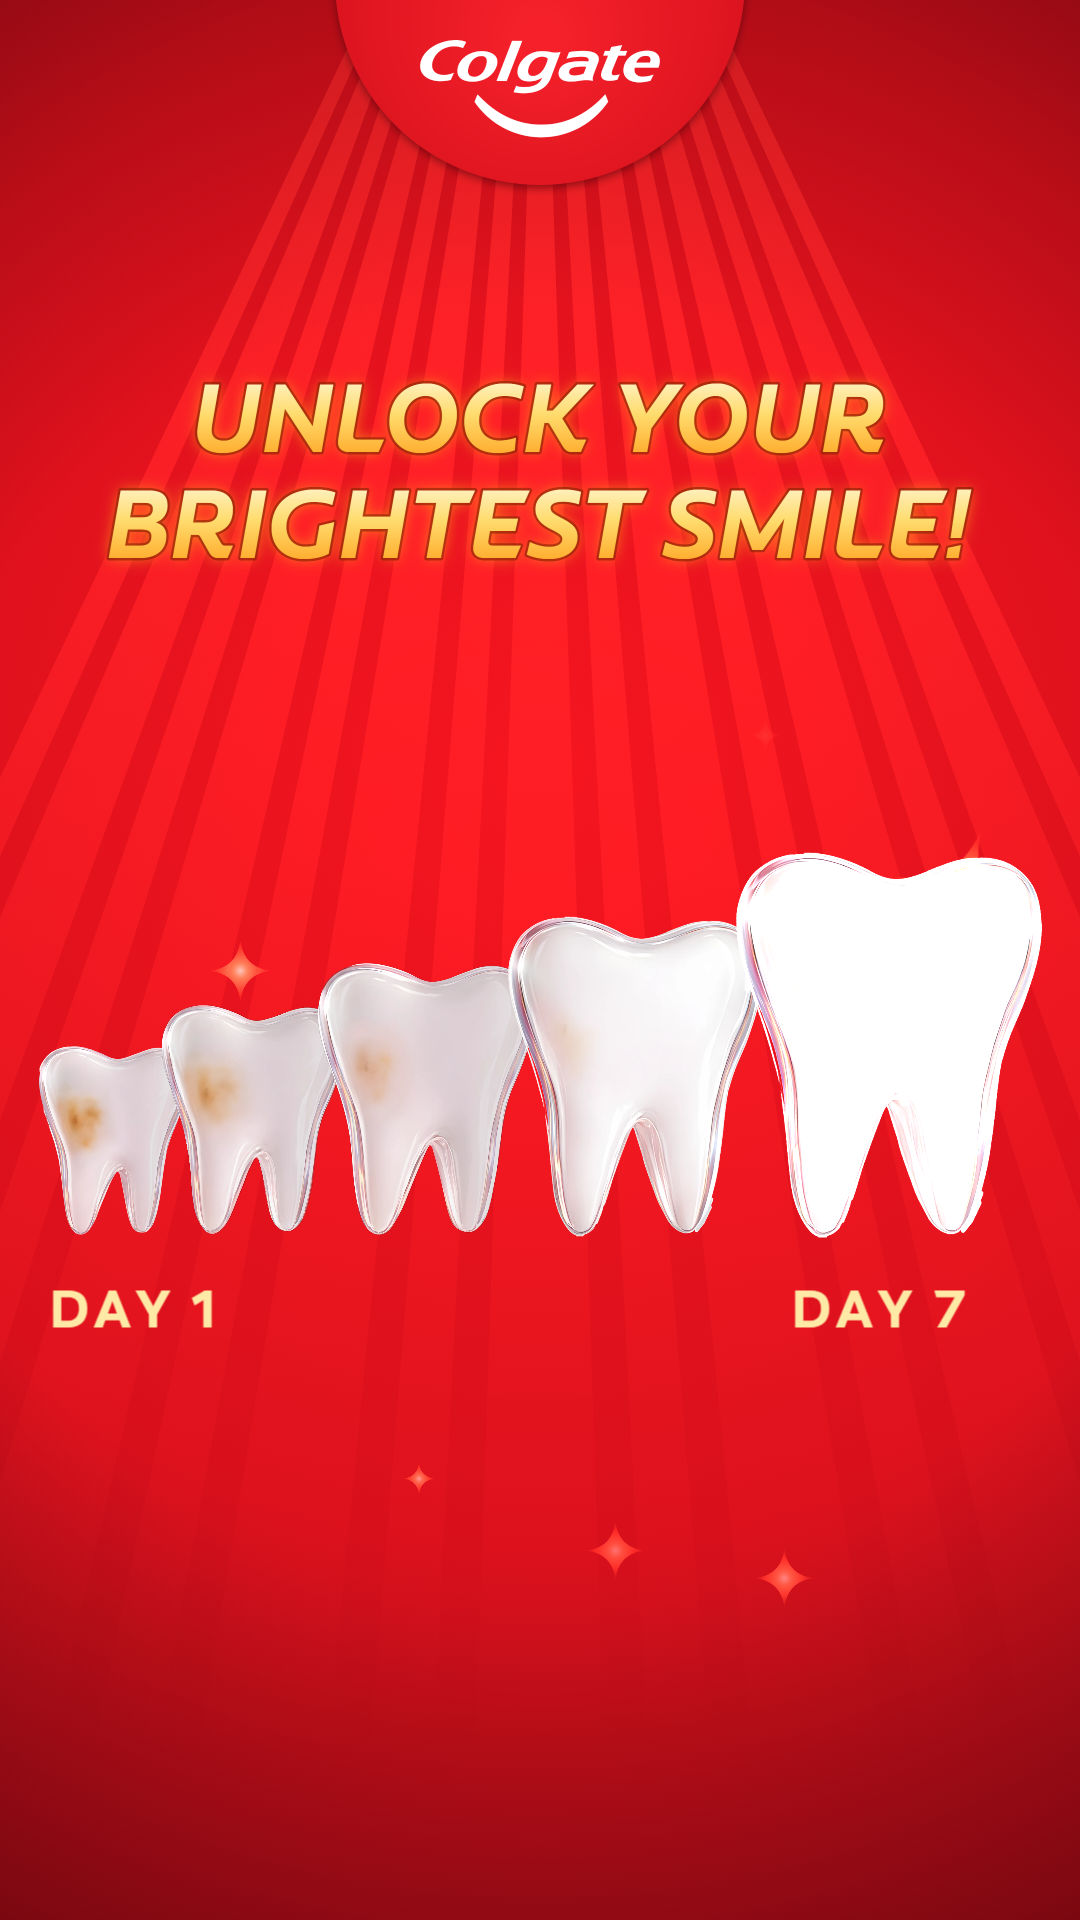
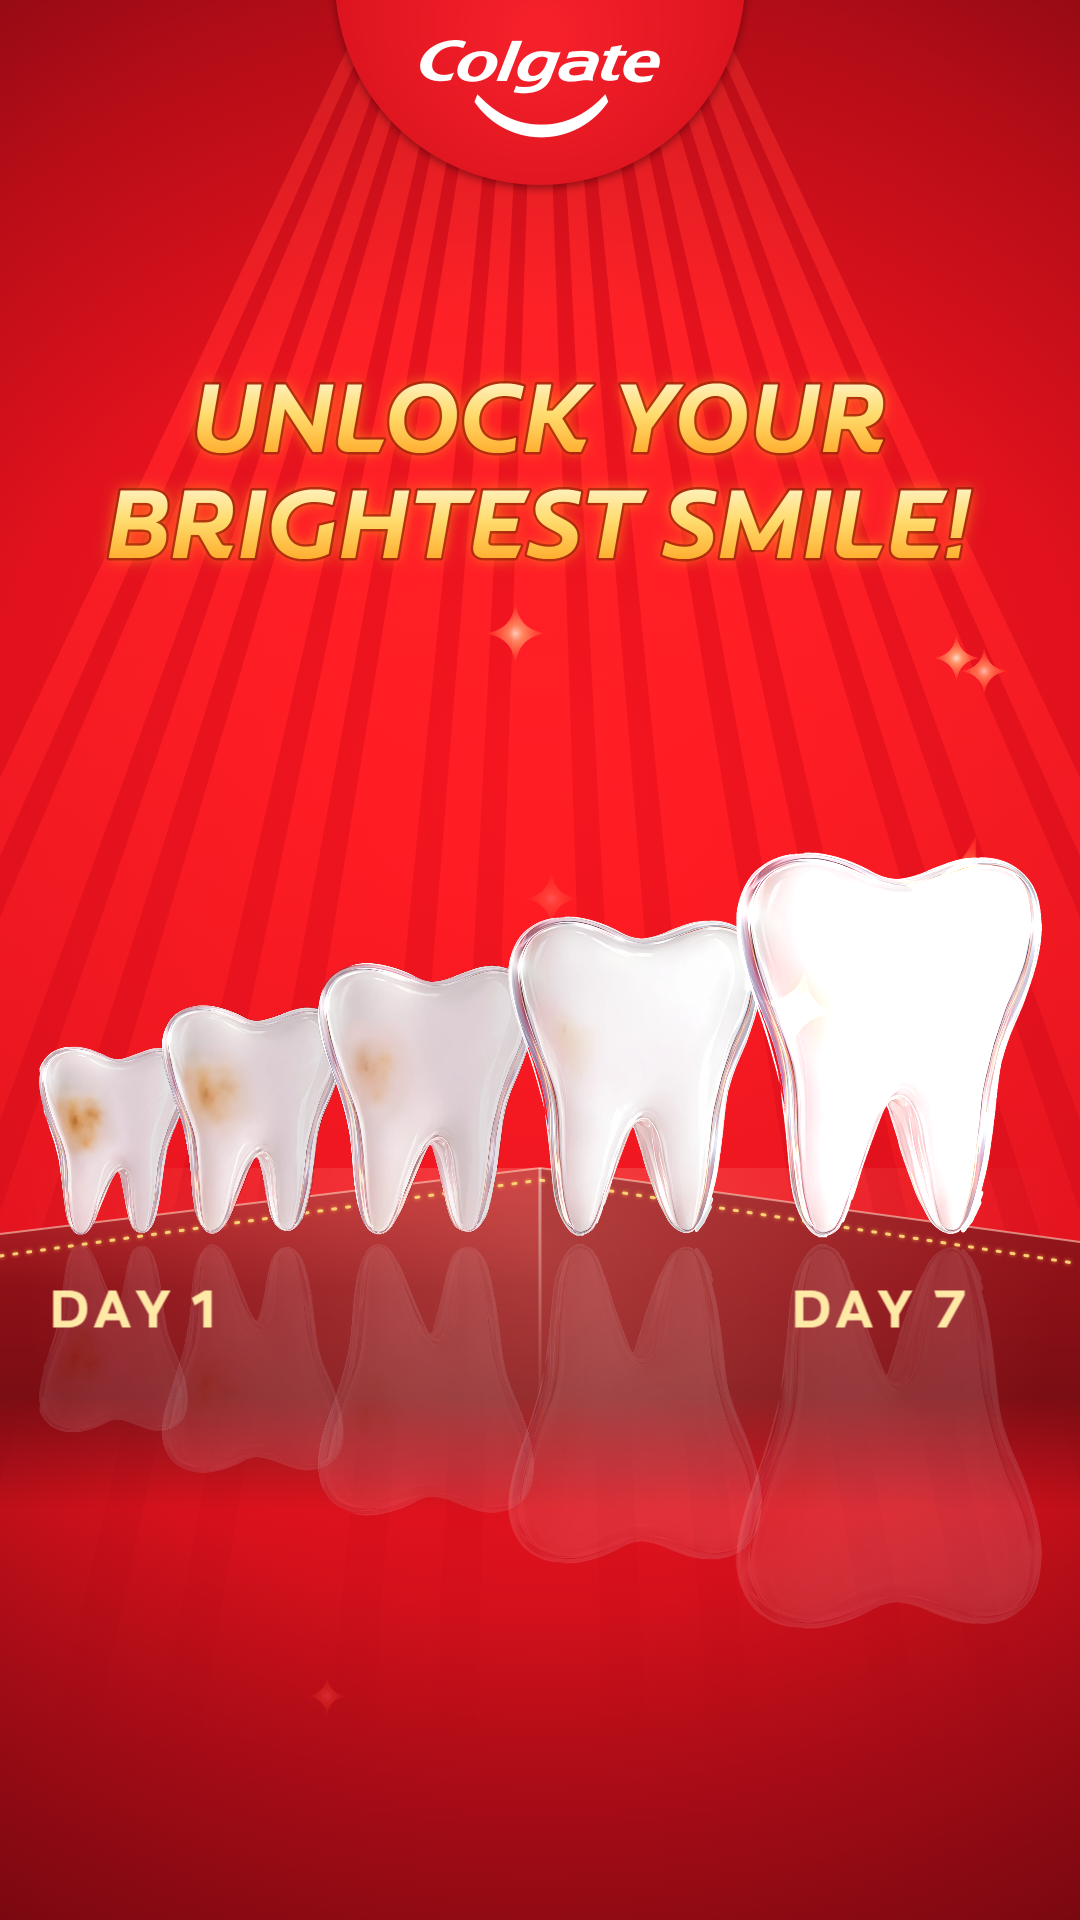
feat: add the glossy red stage with reflections under the teeth on Unlock

diff --git a/src/ui/art/stage.ts b/src/ui/art/stage.ts
@@ -1,0 +1,90 @@
+import type Phaser from 'phaser';
+import { drawTexture } from './canvas';
+
+export const STAGE_WIDTH = 1080;
+export const STAGE_HEIGHT = 380;
+/** Where the ridge (the highest point of the platform's back edge) sits, from the top of the texture. */
+const RIDGE_Y = 38;
+const SIDE_Y = 104;
+
+/**
+ * Glossy red platform the teeth stand on, like the key visual: two planes meeting in a shallow
+ * ridge, a dotted gold line along the back edge, and a bright seam where the planes meet.
+ * Draw order matters: surface, shading, gloss, dotted edge, seam.
+ */
+export function makeStage(scene: Phaser.Scene): void {
+  drawTexture(scene, 'stage', STAGE_WIDTH, STAGE_HEIGHT, (ctx, w, h) => {
+    const mid = w / 2;
+    const surface = (from: number, to: number, fromY: number, toY: number): Path2D => {
+      const path = new Path2D();
+      path.moveTo(from, fromY);
+      path.lineTo(to, toY);
+      path.lineTo(to, h);
+      path.lineTo(from, h);
+      path.closePath();
+      return path;
+    };
+    const left = surface(0, mid, SIDE_Y, RIDGE_Y);
+    const right = surface(mid, w, RIDGE_Y, SIDE_Y + 8);
+
+    // Surfaces: brighter by the back edge, falling to deep red at the front.
+    for (const [path, light] of [
+      [left, '#C42A2E'],
+      [right, '#9A1A20'],
+    ] as const) {
+      const fill = ctx.createLinearGradient(0, RIDGE_Y, 0, h);
+      fill.addColorStop(0, light);
+      fill.addColorStop(0.35, '#8C1017');
+      fill.addColorStop(1, '#690A10');
+      ctx.fillStyle = fill;
+      ctx.fill(path);
+    }
+
+    // Soft sheen across the surface, strongest in the middle.
+    const sheen = ctx.createRadialGradient(mid, 120, 10, mid, 120, 520);
+    sheen.addColorStop(0, 'rgba(255,170,150,0.28)');
+    sheen.addColorStop(1, 'rgba(255,170,150,0)');
+    ctx.fillStyle = sheen;
+    ctx.fillRect(0, RIDGE_Y, w, h - RIDGE_Y);
+
+    // Dotted gold line a little below the back edge, with a faint glow.
+    ctx.save();
+    ctx.lineCap = 'round';
+    ctx.setLineDash([3, 11]);
+    ctx.lineWidth = 3;
+    ctx.strokeStyle = 'rgba(255,214,120,0.95)';
+    ctx.shadowColor = 'rgba(255,190,80,0.9)';
+    ctx.shadowBlur = 8;
+    ctx.beginPath();
+    ctx.moveTo(0, SIDE_Y + 22);
+    ctx.lineTo(mid, RIDGE_Y + 12);
+    ctx.lineTo(w, SIDE_Y + 30);
+    ctx.stroke();
+    ctx.restore();
+
+    // Thin highlight right on the edge.
+    ctx.strokeStyle = 'rgba(255,225,200,0.55)';
+    ctx.lineWidth = 2;
+    ctx.beginPath();
+    ctx.moveTo(0, SIDE_Y);
+    ctx.lineTo(mid, RIDGE_Y);
+    ctx.lineTo(w, SIDE_Y + 8);
+    ctx.stroke();
+
+    // Seam where the two planes meet, fading out toward the front.
+    const seam = ctx.createLinearGradient(0, RIDGE_Y, 0, h * 0.75);
+    seam.addColorStop(0, 'rgba(255,230,220,0.55)');
+    seam.addColorStop(1, 'rgba(255,230,220,0)');
+    ctx.fillStyle = seam;
+    ctx.fillRect(mid - 1.5, RIDGE_Y, 3, h * 0.75 - RIDGE_Y);
+
+    // Fade the front away so the platform melts into the background instead of ending in a line.
+    ctx.globalCompositeOperation = 'destination-out';
+    const fade = ctx.createLinearGradient(0, h * 0.7, 0, h);
+    fade.addColorStop(0, 'rgba(0,0,0,0)');
+    fade.addColorStop(1, 'rgba(0,0,0,1)');
+    ctx.fillStyle = fade;
+    ctx.fillRect(0, h * 0.7, w, h * 0.3);
+    ctx.globalCompositeOperation = 'source-over';
+  });
+}

diff --git a/src/scenes/UnlockScene.ts b/src/scenes/UnlockScene.ts
@@ -24,6 +24,8 @@ const OVERLAP = 26;
 const FIRST_AT_MS = 380;
 const STEP_MS = 230;
 const BASELINE_Y = 1240;
+/** The platform's back edge sits above the teeth's feet, so they stand on its surface. */
+const STAGE_TOP_Y = BASELINE_Y - 110;
 
 /** Short celebration between gameplay and the initials screen. */
 export class UnlockScene extends Phaser.Scene {
@@ -50,6 +52,8 @@ export class UnlockScene extends Phaser.Scene {
     addHeader(this, false);
     popIn(this, addArt(this, cx, 470, 'title-unlock'), 120, 0.6);
 
+    addArt(this, cx, STAGE_TOP_Y, 'stage').setOrigin(0.5, 0);
+
     const total = TEETH.reduce((sum, t) => sum + t.width, 0) - OVERLAP * (TEETH.length - 1);
     let left = cx - total / 2;
     let last = { x: cx, y: BASELINE_Y };
@@ -62,6 +66,13 @@ export class UnlockScene extends Phaser.Scene {
       const delay = FIRST_AT_MS + i * STEP_MS;
       const image = this.add.image(x, y, tooth.texture).setDisplaySize(tooth.width, height);
       popIn(this, image, delay, 0.5);
+      // Faint mirror image on the glossy floor.
+      const reflection = this.add
+        .image(x, BASELINE_Y + height / 2 + 4, tooth.texture)
+        .setDisplaySize(tooth.width, height)
+        .setFlipY(true)
+        .setAlpha(0);
+      this.tweens.add({ targets: reflection, alpha: 0.13, delay: delay + 150, duration: 400 });
       this.time.delayedCall(delay, () => audio.playSfx('sfx-pop', { detune: i * 140 }));
       float(this, image, 6, 1500 + i * 120, delay + 300);
       if (i === TEETH.length - 1) {
@@ -71,7 +82,7 @@ export class UnlockScene extends Phaser.Scene {
           .setDisplaySize(tooth.width, height)
           .setBlendMode(Phaser.BlendModes.ADD)
           .setAlpha(0);
-        this.tweens.add({ targets: glow, alpha: 0.28, delay: delay + 250, duration: 500 });
+        this.tweens.add({ targets: glow, alpha: 0.14, delay: delay + 250, duration: 500 });
         float(this, glow, 6, 1500 + i * 120, delay + 300);
         last = { x, y };
       }
@@ -79,7 +90,6 @@ export class UnlockScene extends Phaser.Scene {
 
     const lastDelay = FIRST_AT_MS + (TEETH.length - 1) * STEP_MS;
     const halo = addGlow(this, last.x, last.y, 900, 0);
-    halo.setDepth(-1);
     this.tweens.add({ targets: halo, alpha: 0.95, delay: lastDelay, duration: 600, yoyo: true });
     this.time.delayedCall(lastDelay + 150, () => sparkBurst(this, last.x, last.y, 18, 360));
     // Two glints that keep twinkling on the clean tooth.

diff --git a/src/ui/art/index.ts b/src/ui/art/index.ts
@@ -4,12 +4,13 @@ import { makeBigC, makeGradientText, makeLockup, makeLogoTab, makeRing } from '.
 import { makeIcons } from './icons';
 import { makeObjects } from './objects';
 import { makeMeter } from './skins';
+import { makeStage } from './stage';
 
 /**
  * Draw every procedural texture once at boot. Needs 'logo-colgate' to be loaded already.
  * Texture keys: bg-main, bg-play, logo-tab, lockup, ring, big-c, c-orbit, title-game, title-how,
  * title-unlock, ico-*, spark, glow, confetti, decoy, decoy-pill-a/b, stain, basket, meter-track,
- * meter-fill (buttons/panels are cached on demand).
+ * meter-fill, stage (buttons/panels are cached on demand).
  */
 export function registerUiArt(scene: Phaser.Scene): void {
   makeBackgrounds(scene);
@@ -20,6 +21,7 @@ export function registerUiArt(scene: Phaser.Scene): void {
   makeLockup(scene);
   makeRing(scene);
   makeBigC(scene);
+  makeStage(scene);
 
   makeGradientText(
     scene,
